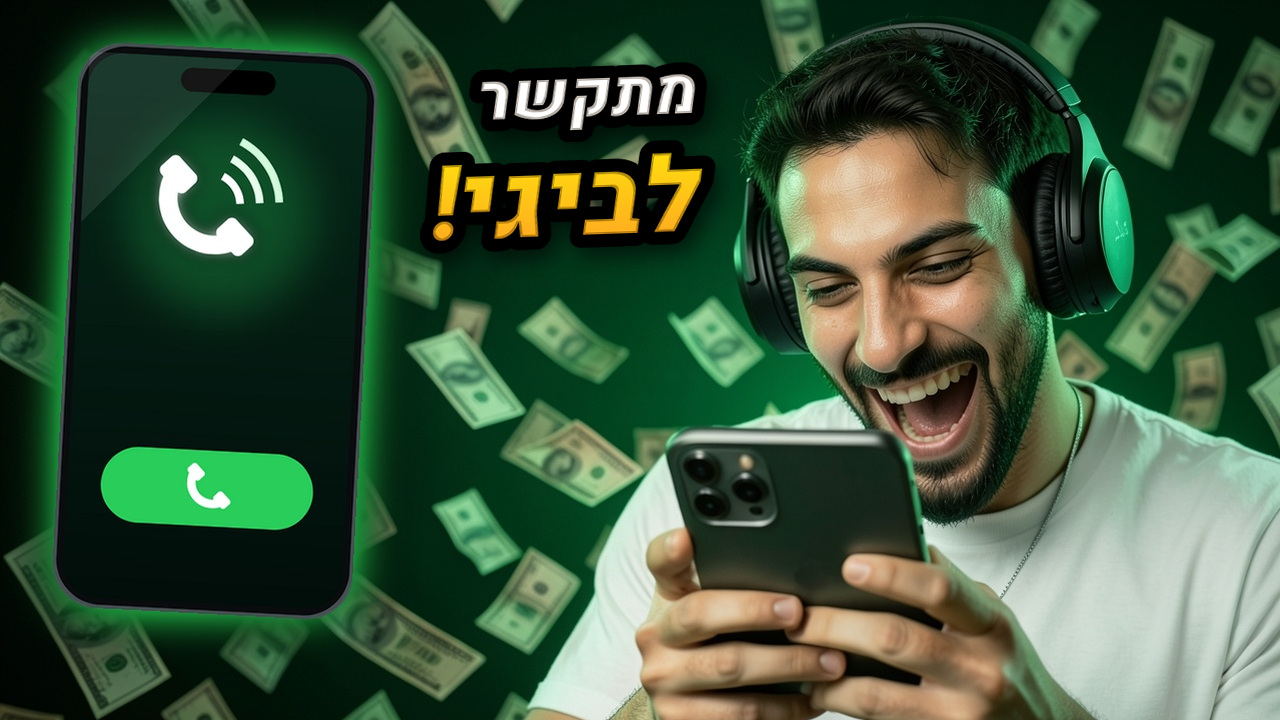
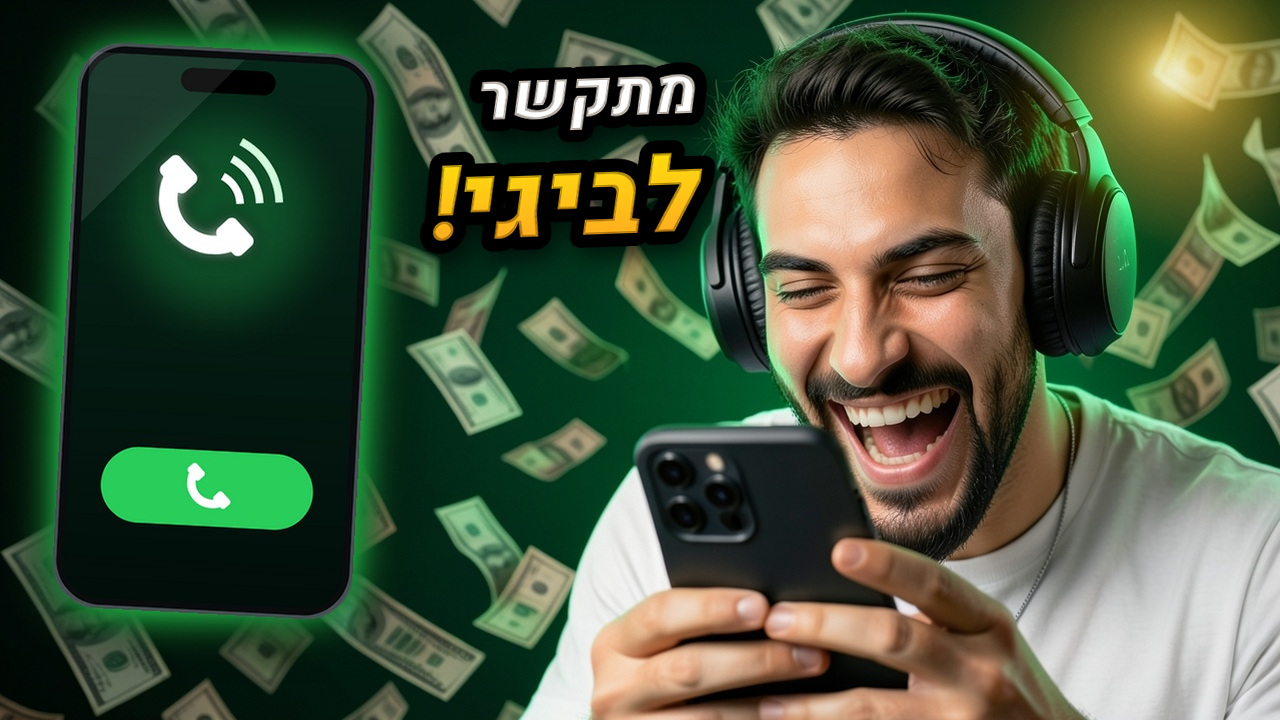
Thumbnail lighting: bright key light on the face, rim light, no yellow on headphones
Claude-Session: https://claude.ai/code/session_0168LVTkumFT6PJRGDAoJoGJ

diff --git a/scripts/make_scene_thumb.py b/scripts/make_scene_thumb.py
@@ -12,8 +12,8 @@ BASE = ("Photorealistic cinematic YouTube thumbnail, 16:9, ultra sharp, vivid sa
 # ---- style presets per video type (vary the scene/costume/prop/colours with the topic) ----
 PRESETS = {
  "game_launch": dict(scene="neon tropical city boulevard at sunset, a red sports car, palm trees, pink and orange sky, glowing neon signs", expr="pure shock, mouth open, one hand on his cheek", grad="255,238,10:255,150,40"),
- "phone_call": dict(scene="dark emerald-green cinematic background filled with hundreds of flying US dollar bills of different sizes and depth-of-field blur, rich green glow, the lighting is green only, absolutely no yellow or orange light, no light bloom at the edges, his headphones stay matte black with no glow or reflection. He is on the RIGHT half of the frame, very close to the camera, laughing hard with a huge open-mouth grin and looking down at a smartphone he holds in front of his chest, the phone has its BACK to the viewer with a triple camera lens. Exactly two hands and arms in total, never three. The left 40 percent of the frame is only dark green with flying bills (a phone will be added there later)", expr="huge excited laugh, mouth wide open, looking at his phone", side="right", refs="laugh,excited,smirk", grad="255,238,10:255,150,40", overlay="phone", box=(50, 40, 300, 565, -3), glow=(40, 230, 90), accent=(40, 205, 90), alt="phone_call_b"),
- "phone_call_b": dict(scene="deep purple and black cinematic background filled with hundreds of flying US dollar bills of different sizes with depth-of-field blur, violet glow and a soft orange light bloom at the far left edge only, his headphones stay matte black with no glow or yellow reflection. He is on the LEFT half of the frame, very close to the camera, eyes wide open with a shocked grin, pressing ONE smartphone against his ear with one hand so only the BACK of the phone with its camera is visible to the viewer; his other arm hangs down out of frame. Exactly two hands and arms in total, never three. The right 40 percent of the frame is only dark purple with flying bills (a phone will be added there later)", expr="wide shocked eyes, mouth open, thrilled disbelief", side="left", refs="shock,excited,smirk", grad="255,238,10:255,150,40", overlay="phone", box=(930, 40, 300, 565, 3), glow=(190, 90, 255), accent=(40, 205, 90)),
+ "phone_call": dict(scene="dark emerald-green cinematic background filled with hundreds of flying US dollar bills of different sizes and depth-of-field blur, rich green glow and green rim light on the edges of his hair and shoulders. His FACE is brightly and warmly lit by a strong soft key light from the front-left with vivid skin highlights, crisp contrast and glowing healthy skin tones, like a professional portrait. A small warm yellow glow far behind him at the very top-right corner only. His headphones stay matte black with no yellow reflection. He is on the RIGHT half of the frame, very close to the camera, laughing hard with a huge open-mouth grin and looking down at a smartphone he holds in front of his chest, the phone has its BACK to the viewer with a triple camera lens. Exactly two hands and arms in total, never three. The left 40 percent of the frame is only dark green with flying bills (a phone will be added there later)", expr="huge excited laugh, mouth wide open, looking at his phone", side="right", refs="laugh,excited,smirk", grad="255,238,10:255,150,40", overlay="phone", box=(50, 40, 300, 565, -3), glow=(40, 230, 90), accent=(40, 205, 90), alt="phone_call_b"),
+ "phone_call_b": dict(scene="deep purple and black cinematic background filled with hundreds of flying US dollar bills of different sizes with depth-of-field blur, violet glow and violet rim light on the edges of his hair and shoulders. His FACE is brightly and warmly lit by a strong soft key light from the front with vivid skin highlights, crisp contrast, like a professional portrait. A soft orange light bloom at the far left edge only, his headphones stay matte black with no glow or yellow reflection. He is on the LEFT half of the frame, very close to the camera, eyes wide open with a shocked grin, pressing ONE smartphone against his ear with one hand so only the BACK of the phone with its camera is visible to the viewer; his other arm hangs down out of frame. Exactly two hands and arms in total, never three. The right 40 percent of the frame is only dark purple with flying bills (a phone will be added there later)", expr="wide shocked eyes, mouth open, thrilled disbelief", side="left", refs="shock,excited,smirk", grad="255,238,10:255,150,40", overlay="phone", box=(930, 40, 300, 565, 3), glow=(190, 90, 255), accent=(40, 205, 90)),
  "heist": dict(scene="wearing a black beanie and a tactical vest, clutching a heavy sack of cash in a wrecked luxury jewellery shop, broken glass, red and blue police lights through the window", expr="wide panicked eyes, nervous grin", grad="255,238,10:255,60,60"),
  "lawsuit": dict(scene="wearing a dark suit and red tie in a mahogany law office with bookshelves and brass scales, holding a giant official envelope with a red stamp and wax seal toward the camera, warm lamp light", expr="stern intimidating stare, one eyebrow raised", grad="255,238,10:255,120,30"),
  "courtroom_ban": dict(scene="wearing a black judge robe, slamming a huge wooden gavel with orange sparks in a dark wood courtroom, a glowing screen with red X marks behind", expr="furious, teeth clenched", grad="255,238,10:255,90,40"),

diff --git a/RULES.md b/RULES.md
@@ -33,3 +33,4 @@ Owner showed Grok Bot's thumbnails for the same video (14 Nov): vivid saturated 
 Thumbnail QA (owner 14 Nov, strict on details): (1) exactly two hands, never three; (2) a phone held to the ear shows its BACK to the viewer, the screen is against the ear; (3) screens/UI/props must have real, readable details: phone UI is DRAWN with scripts/phone_ui.py (not AI), caller name, green accept and red decline icons. Reject seeds that fail by eye. gen() retries other seeds when Cloudflare flags a prompt (3030).
 Thumbnail A/B (owner 14 Nov): each video gets TWO different layouts (preset + its "alt" preset). phone_call: A = Oded shocked with phone at ear + drawn call screen lower-right; B = Oded laughing at his phone on the right, green money background, big call screen on the left. The headline must NOT cover the screen/prop: pass --avoid zones to thumb_maker.py (make_scene_thumb does it).
 Phone-call thumbnail v6 (owner reference = Grok "הכל זה כסף"): DARK emerald (or deep purple) cinematic background with HUNDREDS of flying dollar bills at different depths + warm light bloom at an edge; a thin-bezel UPRIGHT phone drawn by phone_ui.py with dynamic island, neon glow, dark-green screen, ONE big white handset icon with 3 waves and one wide green call button (no avatar, no red button, no text); Oded close-up big laugh looking at his phone (back with camera lenses visible) or phone at ear; headline never on the phone/face. Study the reference image details before changing anything; owner is very strict and notices small details.
+LIGHTING (owner 14 Nov): the face must be BRIGHTLY lit (strong soft key light, vivid skin highlights, rim light in the background colour) like the Grok reference. A flat unlit face "looks like shit". Warm glow only far behind, never on the headphones.
